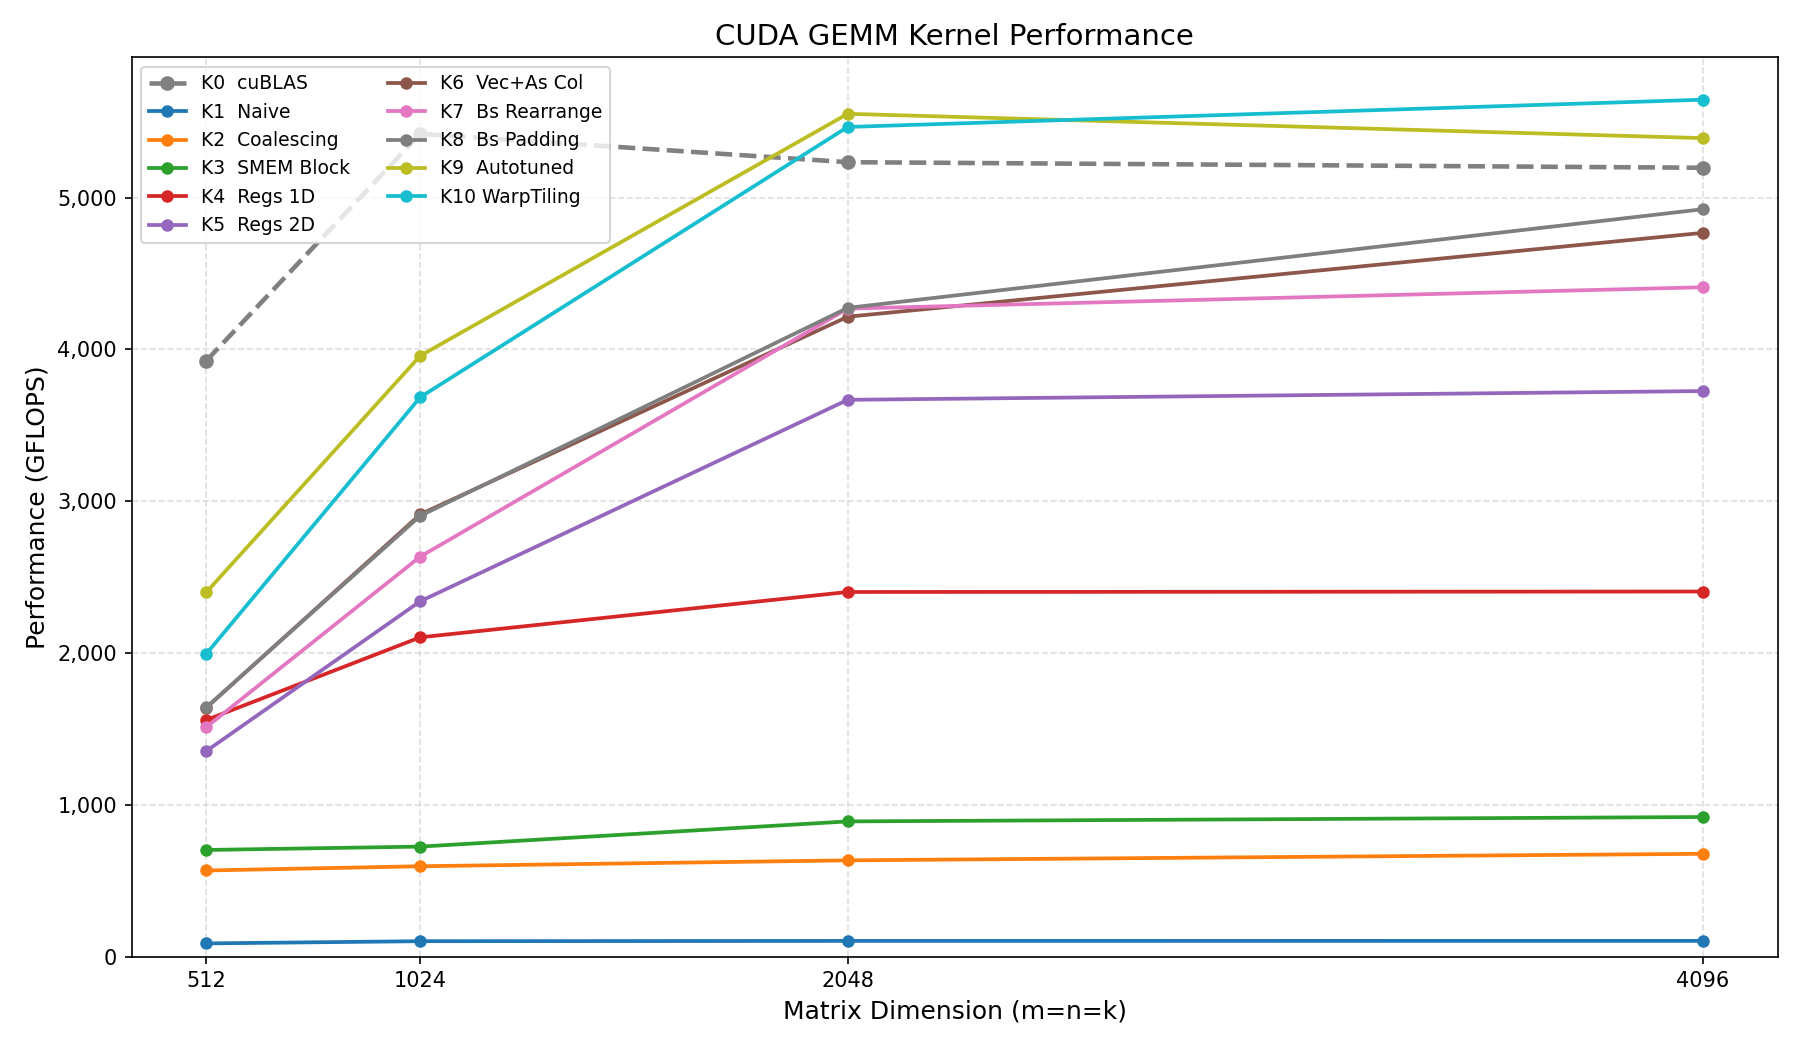
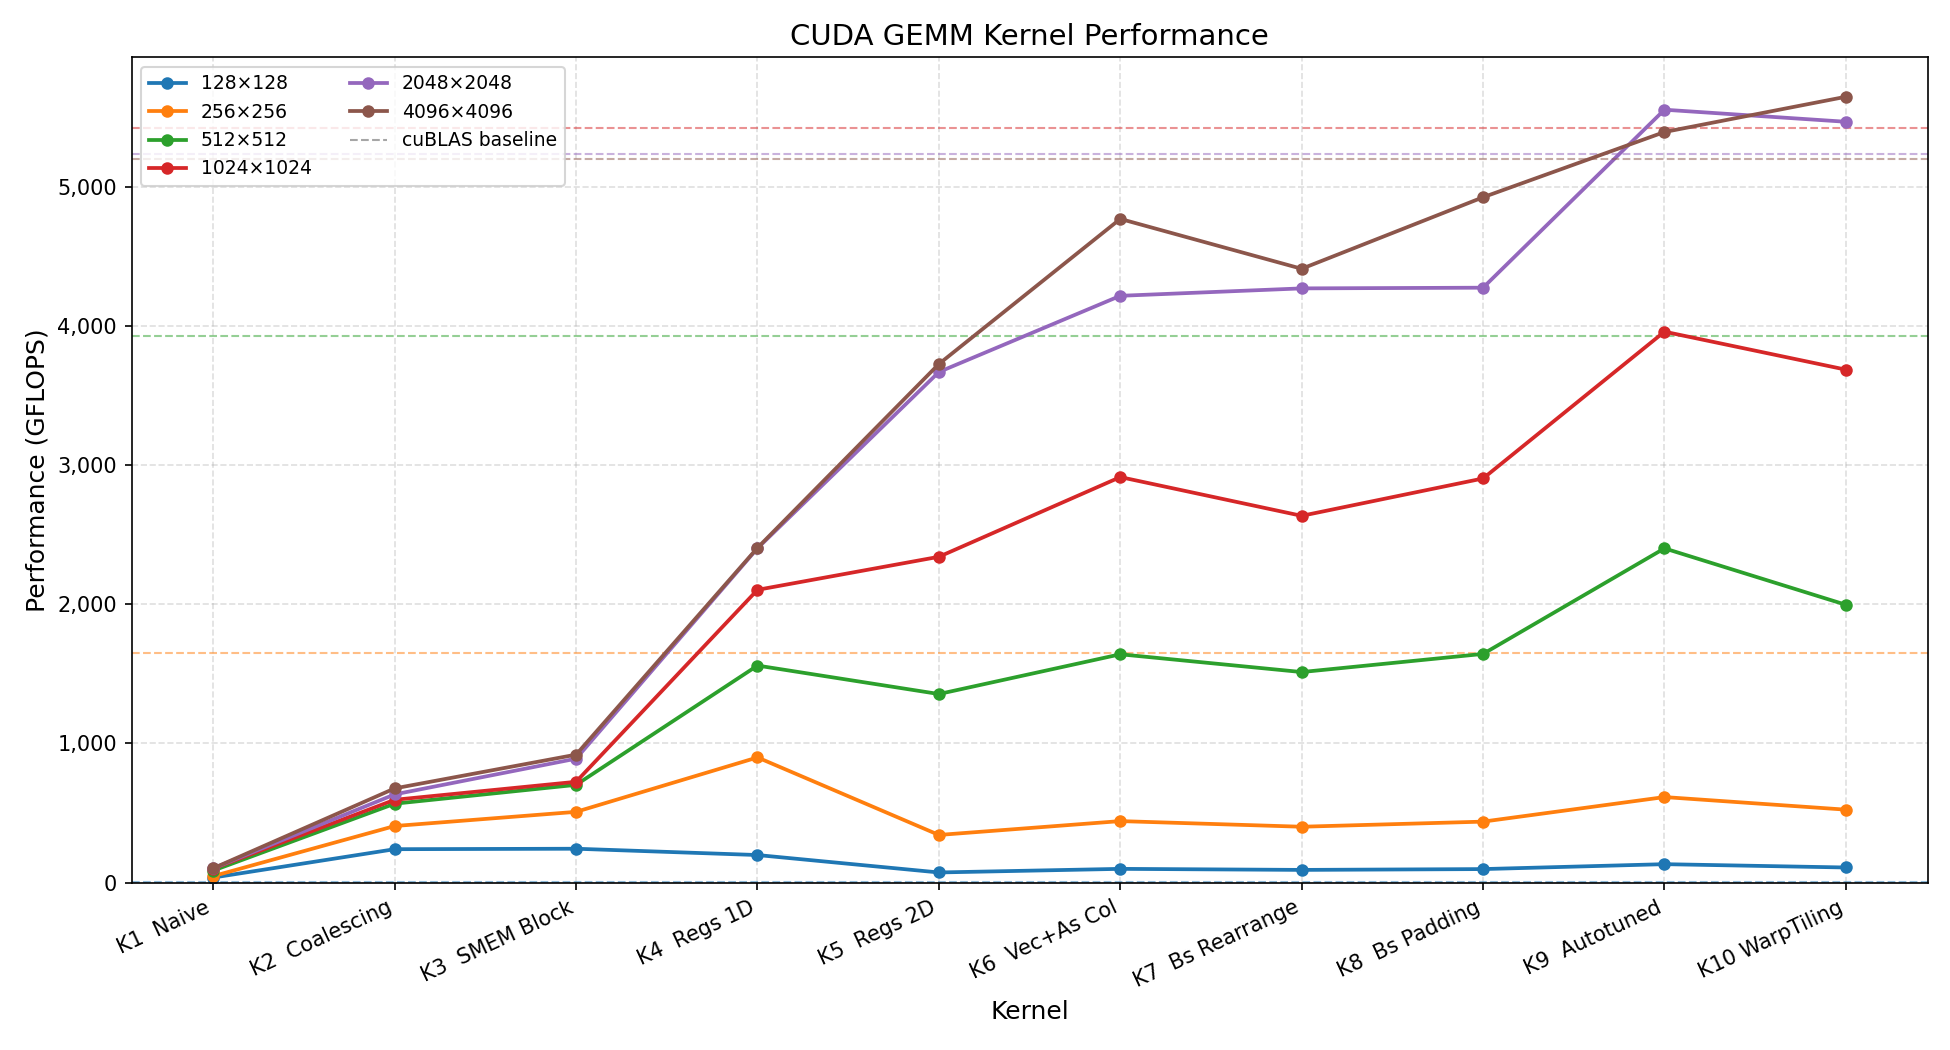
modify the plot

diff --git a/plot_performance.py b/plot_performance.py
@@ -13,6 +13,7 @@
 """
 
 import argparse
+import base64
 import re
 import sys
 from pathlib import Path
@@ -98,40 +99,66 @@ def main():
         print("错误：没有找到任何结果文件", file=sys.stderr)
         sys.exit(1)
 
-    fig, ax = plt.subplots(figsize=(12, 7))
+    # X 轴为 kernel 1-10，每条折线代表一个矩阵维度
+    plot_kernels = list(range(1, 11))
+    # tab10 调色板提供 10 种区分度高的颜色，每个维度一种
+    colors = [plt.cm.tab10(i) for i in range(len(dims))]
 
-    for kid, results in data.items():
-        # results.get(d) 在该 kernel 没有某维度数据时返回 None
-        y = [results.get(d) for d in dims]
-        # 过滤掉 None，只绘制有数据的点；某 kernel 在部分维度缺测时折线自动断开
-        valid = [(d, v) for d, v in zip(dims, y) if v is not None]
+    fig, ax = plt.subplots(figsize=(13, 7))
+
+    for i, dim in enumerate(dims):
+        color = colors[i]
+        ys = [data.get(kid, {}).get(dim) for kid in plot_kernels]
+        # 过滤掉 None（该 kernel 无此维度数据），折线在缺失处自动断开
+        valid = [(kid, v) for kid, v in zip(plot_kernels, ys) if v is not None]
         if not valid:
             continue
-        xs, ys = zip(*valid)
+        xs, ys_valid = zip(*valid)
+        ax.plot(xs, ys_valid, label=f"{dim}×{dim}", marker="o",
+                linewidth=1.8, markersize=5, color=color)
 
-        style = dict(marker="o", linewidth=1.8, markersize=5)
-        # cuBLAS（kid=0）用虚线灰色加粗，作为性能上限参考基线
-        if kid == 0:
-            style.update(linewidth=2.2, linestyle="--", color="gray", markersize=6)
+        # cuBLAS 基准：与该维度同色的水平虚线，方便直接对比每个 kernel 与 cuBLAS 的差距
+        cublas = data.get(0, {}).get(dim)
+        if cublas is not None:
+            ax.axhline(cublas, linestyle="--", linewidth=1.0, color=color, alpha=0.5)
 
-        ax.plot(xs, ys, label=KERNEL_LABELS[kid], **style)
-
-    ax.set_xlabel("Matrix Dimension (m=n=k)", fontsize=12)
+    ax.set_xlabel("Kernel", fontsize=12)
     ax.set_ylabel("Performance (GFLOPS)", fontsize=12)
     ax.set_title("CUDA GEMM Kernel Performance", fontsize=14)
-    # X 轴只在实际维度处打刻度，避免线性插值出现无意义的中间值
-    ax.set_xticks(dims)
-    ax.xaxis.set_major_formatter(ticker.FuncFormatter(lambda x, _: str(int(x))))
+    # X 轴刻度：kernel 编号，标签使用简短名称，旋转避免重叠
+    ax.set_xticks(plot_kernels)
+    ax.set_xticklabels([KERNEL_LABELS[k] for k in plot_kernels], rotation=25, ha="right")
     # Y 轴千位分隔符，方便读大数值
     ax.yaxis.set_major_formatter(ticker.FuncFormatter(lambda x, _: f"{x:,.0f}"))
-    ax.legend(loc="upper left", fontsize=9, ncol=2)
+    # 图例：实线=各维度折线；在图例末尾加一条灰色虚线说明 cuBLAS 基准含义
+    handles, labels = ax.get_legend_handles_labels()
+    from matplotlib.lines import Line2D
+    handles.append(Line2D([0], [0], linestyle="--", linewidth=1.0, color="gray", alpha=0.7))
+    labels.append("cuBLAS baseline")
+    ax.legend(handles, labels, loc="upper left", fontsize=9, ncol=2)
     ax.grid(True, linestyle="--", alpha=0.4)
     ax.set_ylim(bottom=0)  # Y 轴从 0 开始，避免视觉上夸大差距
 
     plt.tight_layout()
-    out = Path(__file__).parent / "benchmark_results" / "performance_plot.png"
+    out = Path(__file__).parent / "performance_plot.png"
     plt.savefig(out, dpi=150)
     print(f"已保存：{out}")
+
+    # 将图片以 base64 内联写入 README.md，替换 ![...](...) 引用行
+    # 注意：data: URI 在本地 Markdown 渲染器（VS Code 等）正常显示，GitHub 不渲染
+    readme = Path(__file__).parent / "README.md"
+    if readme.exists():
+        b64 = base64.b64encode(out.read_bytes()).decode()
+        inline_tag = f"![CUDA GEMM Kernel Performance](data:image/png;base64,{b64})"
+        # 替换形如 ![CUDA GEMM Kernel Performance](...) 的行（无论括号内是路径还是旧 base64）
+        updated = re.sub(
+            r"!\[CUDA GEMM Kernel Performance\]\([^)]*\)",
+            inline_tag,
+            readme.read_text(),
+        )
+        readme.write_text(updated)
+        print(f"已更新：{readme}")
+
     plt.show()
 
 